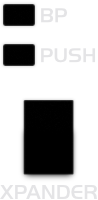
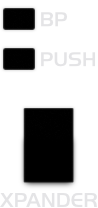
Add Xpander mode controls
Fix frame drawing of ToggleButton when resizing

diff --git a/src/PluginEditor.cpp b/src/PluginEditor.cpp
@@ -921,6 +921,19 @@ void ObxfAudioProcessorEditor::loadSkin(ObxfAudioProcessor &ownerFilter)
                                   useAssetOrDefault(pic, "button-slim"));
                     mappingComps["selfOscPushButton"] = selfOscPushButton.get();
                 }
+                if (name == "xpanderFilterButton")
+                {
+                    xpanderFilterButton =
+                        addButton(x, y, w, h, ownerFilter, XPANDER_FILTER, Name::XpanderFilter,
+                                  useAssetOrDefault(pic, "button"));
+                    mappingComps["xpanderFilterButton"] = xpanderFilterButton.get();
+                }
+                if (name == "xpanderModeList")
+                {
+                    xpanderModeList = addList(x, y, w, h, ownerFilter, XPANDER_MODE,
+                                              Name::XpanderMode, "menu-xpander");
+                    mappingComps["xpanderModeList"] = xpanderModeList.get();
+                }
 
                 if (name == "prevPatchButton")
                 {
@@ -1054,11 +1067,12 @@ void ObxfAudioProcessorEditor::loadSkin(ObxfAudioProcessor &ownerFilter)
             bendUpRangeList->addChoice(juce::String(i));
         }
 
-        const auto voiceOption = ownerFilter.getValueTreeState()
-                                     .getParameter(paramManager.getEngineParameterId(PITCH_BEND_UP))
-                                     ->getValue();
+        const auto bendUpOption =
+            ownerFilter.getValueTreeState()
+                .getParameter(paramManager.getEngineParameterId(PITCH_BEND_UP))
+                ->getValue();
         bendUpRangeList->setScrollWheelEnabled(true);
-        bendUpRangeList->setValue(voiceOption, juce::dontSendNotification);
+        bendUpRangeList->setValue(bendUpOption, juce::dontSendNotification);
     }
 
     if (bendDownRangeList)
@@ -1076,12 +1090,38 @@ void ObxfAudioProcessorEditor::loadSkin(ObxfAudioProcessor &ownerFilter)
             bendDownRangeList->addChoice(juce::String(i));
         }
 
-        const auto voiceOption =
+        const auto bendDownOption =
             ownerFilter.getValueTreeState()
                 .getParameter(paramManager.getEngineParameterId(PITCH_BEND_DOWN))
                 ->getValue();
         bendDownRangeList->setScrollWheelEnabled(true);
-        bendDownRangeList->setValue(voiceOption, juce::dontSendNotification);
+        bendDownRangeList->setValue(bendDownOption, juce::dontSendNotification);
+    }
+
+    if (xpanderModeList)
+    {
+        xpanderModeList->addChoice("LP4");
+        xpanderModeList->addChoice("LP3");
+        xpanderModeList->addChoice("LP2");
+        xpanderModeList->addChoice("LP1");
+        xpanderModeList->addChoice("HP3");
+        xpanderModeList->addChoice("HP2");
+        xpanderModeList->addChoice("HP1");
+        xpanderModeList->addChoice("BP4");
+        xpanderModeList->addChoice("BP2");
+        xpanderModeList->addChoice("N2");
+        xpanderModeList->addChoice("PH3");
+        xpanderModeList->addChoice("HP2+LP1");
+        xpanderModeList->addChoice("HP3+LP1");
+        xpanderModeList->addChoice("N2+LP1");
+        xpanderModeList->addChoice("PH3+LP1");
+
+        const auto xpanderModeOption =
+            ownerFilter.getValueTreeState()
+                .getParameter(paramManager.getEngineParameterId(XPANDER_MODE))
+                ->getValue();
+        xpanderModeList->setScrollWheelEnabled(true);
+        xpanderModeList->setValue(xpanderModeOption, juce::dontSendNotification);
     }
 
     createMenu();
@@ -1132,9 +1172,10 @@ ObxfAudioProcessorEditor::~ObxfAudioProcessorEditor()
 void ObxfAudioProcessorEditor::idle()
 {
     const auto fourPole = fourPoleButton->getToggleState();
+    const auto xpanderMode = xpanderFilterButton->getToggleState();
     const auto bpBlend = filterBPBlendButton->getToggleState();
 
-    const auto filterModeFrame = fourPole ? 2 : (bpBlend ? 1 : 0);
+    const auto filterModeFrame = fourPole ? (xpanderMode ? 3 : 2) : (bpBlend ? 1 : 0);
 
     if (filterModeLabel && filterModeFrame != filterModeLabel->getCurrentFrame())
     {
@@ -1150,6 +1191,11 @@ void ObxfAudioProcessorEditor::idle()
 
     filterBPBlendButton->setVisible(!fourPole);
     selfOscPushButton->setVisible(!fourPole);
+
+    xpanderFilterButton->setVisible(fourPole);
+
+    multimodeKnob->setVisible(!(fourPole && xpanderMode));
+    xpanderModeList->setVisible(fourPole && xpanderMode);
 }
 
 void ObxfAudioProcessorEditor::scaleFactorChanged()
@@ -1257,7 +1303,7 @@ ObxfAudioProcessorEditor::addButton(const int x, const int y, const int w, const
                                     ObxfAudioProcessor &filter, const int parameter,
                                     const juce::String &name, const juce::String &assetName)
 {
-    auto *button = new ToggleButton(assetName, &processor);
+    auto *button = new ToggleButton(assetName, h, &processor);
 
     if (parameter > -1)
     {

diff --git a/src/parameter/SynthParam.h b/src/parameter/SynthParam.h
@@ -31,6 +31,8 @@ namespace SynthParam
 namespace ID
 {
 static const std::string SelfOscPush{"SelfOscPush"};
+static const std::string XpanderFilter{"XpanderFilter"};
+static const std::string XpanderMode{"XpanderMode"};
 static const std::string EnvPitchBoth{"EnvPitchBoth"};
 static const std::string FenvInvert{"FenvInvert"};
 static const std::string PwOsc2Ofs{"PWOfs"};
@@ -64,7 +66,7 @@ static const std::string NoiseMix{"NoiseMix"};
 static const std::string NoiseColor{"NoiseColor"};
 static const std::string Osc1Mix{"Osc1Mix"};
 static const std::string Osc2Mix{"Osc2Mix"};
-static const std::string Multimode{"Multimode"};
+static const std::string Multimode{"FilterMode"};
 static const std::string LfoSineWave{"LfoWave1"};
 static const std::string LfoSquareWave{"LfoWave2"};
 static const std::string LfoSampleHoldWave{"LfoWave3"};
@@ -120,6 +122,8 @@ static const std::string FilterRelease{"FilterRelease"};
 namespace Name
 {
 static const std::string SelfOscPush{"Filter Self-Oscillation Push"};
+static const std::string XpanderFilter{"Xpander Filter"};
+static const std::string XpanderMode{"Xpander Filter Mode"};
 static const std::string EnvPitchBoth{"Filter Envelope to Osc 1+2 Pitch"};
 static const std::string FenvInvert{"Filter Envelope Invert"};
 static const std::string PwOsc2Ofs{"Osc 2 PW Offset"};
@@ -155,7 +159,7 @@ static const std::string Osc2Mix{"Osc 2 Mix"};
 static const std::string RingModMix{"Ring Mod Mix"};
 static const std::string NoiseMix{"Noise Mix"};
 static const std::string NoiseColor{"Noise Color"};
-static const std::string Multimode{"Filter Morph"};
+static const std::string Multimode{"Filter Mode"};
 static const std::string LfoSampleHoldWave{"LFO Wave 3"};
 static const std::string LfoSineWave{"LFO Wave 1"};
 static const std::string LfoSquareWave{"LFO Wave 2"};

diff --git a/src/PluginEditor.h b/src/PluginEditor.h
@@ -196,15 +196,15 @@ class ObxfAudioProcessorEditor final : public juce::AudioProcessorEditor,
         osc2PulButton, unisonButton, pitchEnvInvertButton, pwEnvInvertButton, noiseColorButton,
         oversamplingButton, filterBPBlendButton, lfoOsc1Button, lfoOsc2Button, lfoFilterButton,
         lfoPwm1Button, lfoPwm2Button, lfoVolumeButton, bendOsc2OnlyButton, vibratoWaveButton,
-        fourPoleButton, notePriorityButton, midiLearnButton, midiUnlearnButton, lfoSyncButton,
-        pwEnvBothButton, envPitchBothButton, fenvInvertButton, selfOscPushButton, prevPatchButton,
-        nextPatchButton, initPatchButton, randomizePatchButton, groupSelectButton;
+        fourPoleButton, xpanderFilterButton, notePriorityButton, midiLearnButton, midiUnlearnButton,
+        lfoSyncButton, pwEnvBothButton, envPitchBothButton, fenvInvertButton, selfOscPushButton,
+        prevPatchButton, nextPatchButton, initPatchButton, randomizePatchButton, groupSelectButton;
 
     std::array<std::unique_ptr<Knob>, MAX_PANNINGS> panKnobs;
     std::array<std::unique_ptr<ToggleButton>, NUM_PATCHES_PER_GROUP> selectButtons;
 
     std::unique_ptr<ButtonList> polyphonyList, unisonVoicesList, legatoList, bendUpRangeList,
-        bendDownRangeList;
+        bendDownRangeList, xpanderModeList;
 
     std::unique_ptr<MidiKeyboard> midiKeyboard;
     juce::MidiKeyboardState keyboardState;

diff --git a/src/gui/ToggleButton.h b/src/gui/ToggleButton.h
@@ -35,13 +35,17 @@ class ToggleButton final : public juce::ImageButton, public ScalableComponent
     juce::String img_name;
 
   public:
-    ToggleButton(juce::String name, ObxfAudioProcessor *owner)
+    ToggleButton(juce::String name, const int fh, ObxfAudioProcessor *owner)
         : ImageButton(), ScalableComponent(owner), img_name(std::move(name))
     {
         scaleFactorChanged();
+
         width = kni.getWidth();
         height = kni.getHeight();
+        h2 = fh;
         w2 = width;
+        numFr = height / h2;
+
         this->setClickingTogglesState(true);
     }
 
@@ -83,12 +87,9 @@ class ToggleButton final : public juce::ImageButton, public ScalableComponent
 
     void paintButton(juce::Graphics &g, bool /*isMouseOverButton*/, bool isButtonDown) override
     {
-        int num_frames = height / getBounds().getHeight();
-        int h2 = height / num_frames;
-
         int offset = isButtonDown ? 1 : 0;
 
-        if (getToggleState() && num_frames > 2)
+        if (getToggleState() && numFr > 2)
         {
             offset += 2;
         }
@@ -98,7 +99,7 @@ class ToggleButton final : public juce::ImageButton, public ScalableComponent
 
   private:
     juce::Image kni;
-    int width, height, w2;
+    int width, height, numFr, w2, h2;
 };
 
 #endif // OBXF_SRC_GUI_TOGGLEBUTTON_H

diff --git a/src/parameter/ParameterAdaptor.h b/src/parameter/ParameterAdaptor.h
@@ -145,6 +145,9 @@ static const std::vector<ParameterInfo> ParameterList{
     {ID::BandpassBlend, pmd().asBool().withName(Name::BandpassBlend)},
     {ID::SelfOscPush, pmd().asBool().withName(Name::SelfOscPush)},
 
+    {ID::XpanderFilter, pmd().asBool().withName(Name::XpanderFilter)},
+    {ID::XpanderMode, pmd().asFloat().withName(Name::XpanderMode).withRange(0.f, 1.f)},
+
     // <-- LFO -->
     {ID::LfoSync, pmd().asBool().withName(Name::LfoSync)},
 
@@ -227,6 +230,10 @@ class ParameterManagerAdaptor
         {
         case SELF_OSC_PUSH:
             return ID::SelfOscPush;
+        case XPANDER_FILTER:
+            return ID::XpanderFilter;
+        case XPANDER_MODE:
+            return ID::XpanderMode;
         case ENV_PITCH_BOTH:
             return ID::EnvPitchBoth;
         case FENV_INVERT:
@@ -497,6 +504,12 @@ class ParameterManagerAdaptor
         {
         case SELF_OSC_PUSH:
             synth.processSelfOscPush(newValue);
+            break;
+        case XPANDER_FILTER:
+            synth.processXpanderFilter(newValue);
+            break;
+        case XPANDER_MODE:
+            synth.processXpanderMode(newValue);
             break;
         case PW_ENV_BOTH:
             synth.processPwEnvBoth(newValue);

diff --git a/src/engine/SynthEngine.h b/src/engine/SynthEngine.h
@@ -160,6 +160,11 @@ class SynthEngine
         ForEachVoice(selfOscPush = param > 0.5f);
         ForEachVoice(flt.selfOscPush = param > 0.5f);
     }
+    void processXpanderFilter(float param) { ForEachVoice(flt.xpander = param > 0.5f); }
+    void processXpanderMode(float param)
+    {
+        ForEachVoice(flt.xpanderMode = static_cast<uint8_t>(param * 15.f));
+    }
     void processUnison(float param) { synth.uni = param > 0.5f; }
     void processPortamento(float param)
     {

diff --git a/src/engine/Filter.h b/src/engine/Filter.h
@@ -45,10 +45,14 @@ class Filter
     bool bandPassSw;
     float mm;
     bool selfOscPush;
+    bool xpander;
+    uint8_t xpanderMode;
 
     Filter()
     {
         selfOscPush = false;
+        xpander = false;
+        xpanderMode = 0;
         bandPassSw = false;
         mm = 0.f;
         s1 = s2 = s3 = s4 = 0.f;

diff --git a/src/gui/LookAndFeel.h b/src/gui/LookAndFeel.h
@@ -155,7 +155,6 @@ class LookAndFeel final : public juce::LookAndFeel_V4
                                                         shape, shape);
         }
 
-        jassertfalse;
         return nullptr;
     }
 

diff --git a/src/engine/ParameterTags.h b/src/engine/ParameterTags.h
@@ -110,6 +110,8 @@ enum ParameterTags
     PW_OSC2_OFS,
     LEVEL_DIF,
     SELF_OSC_PUSH,
+    XPANDER_FILTER,
+    XPANDER_MODE,
     PITCH_BEND_DOWN,
     ENVPWINV,
     RINGMODMIX,
